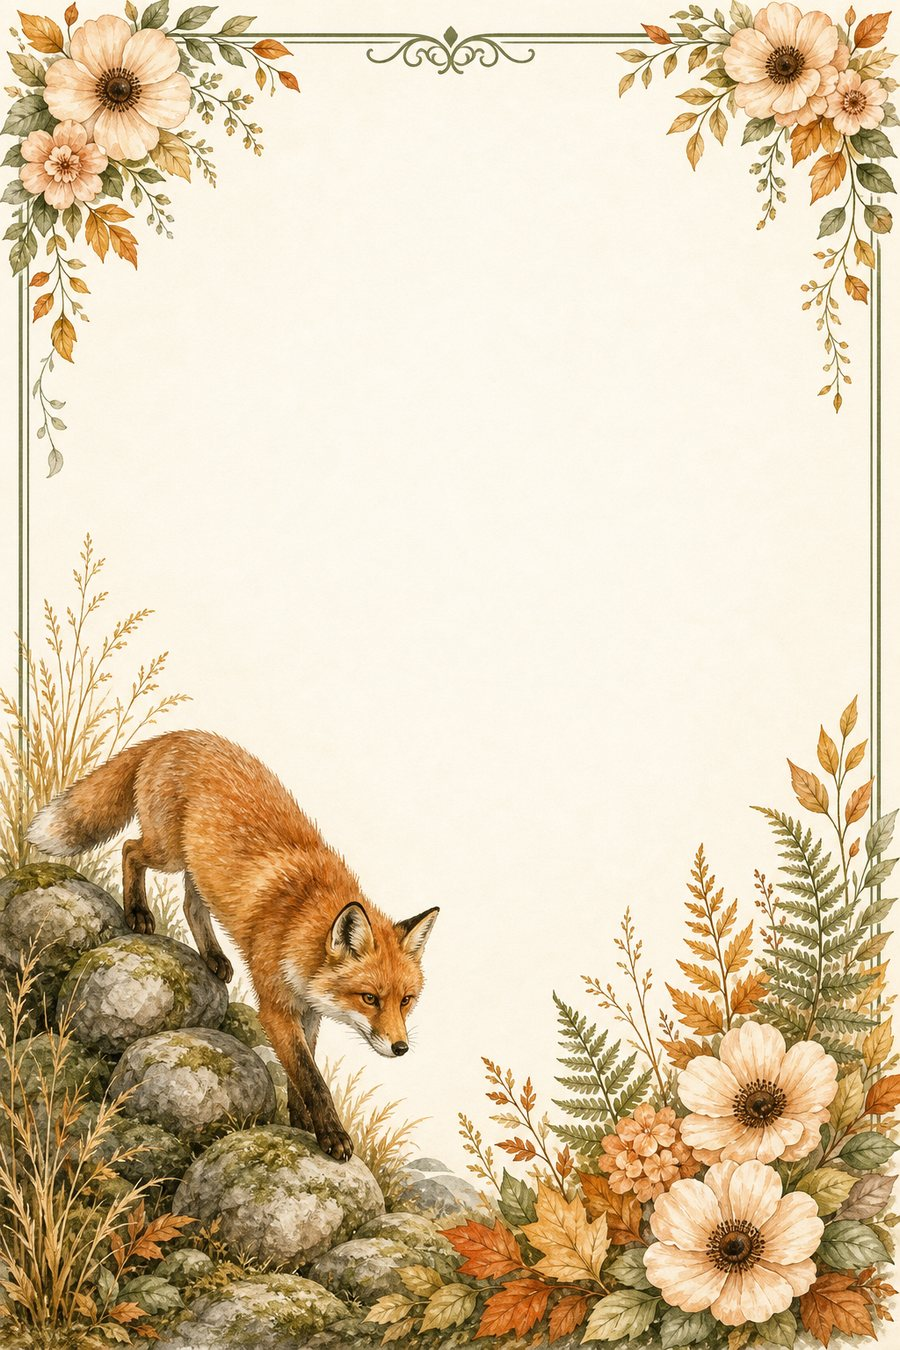
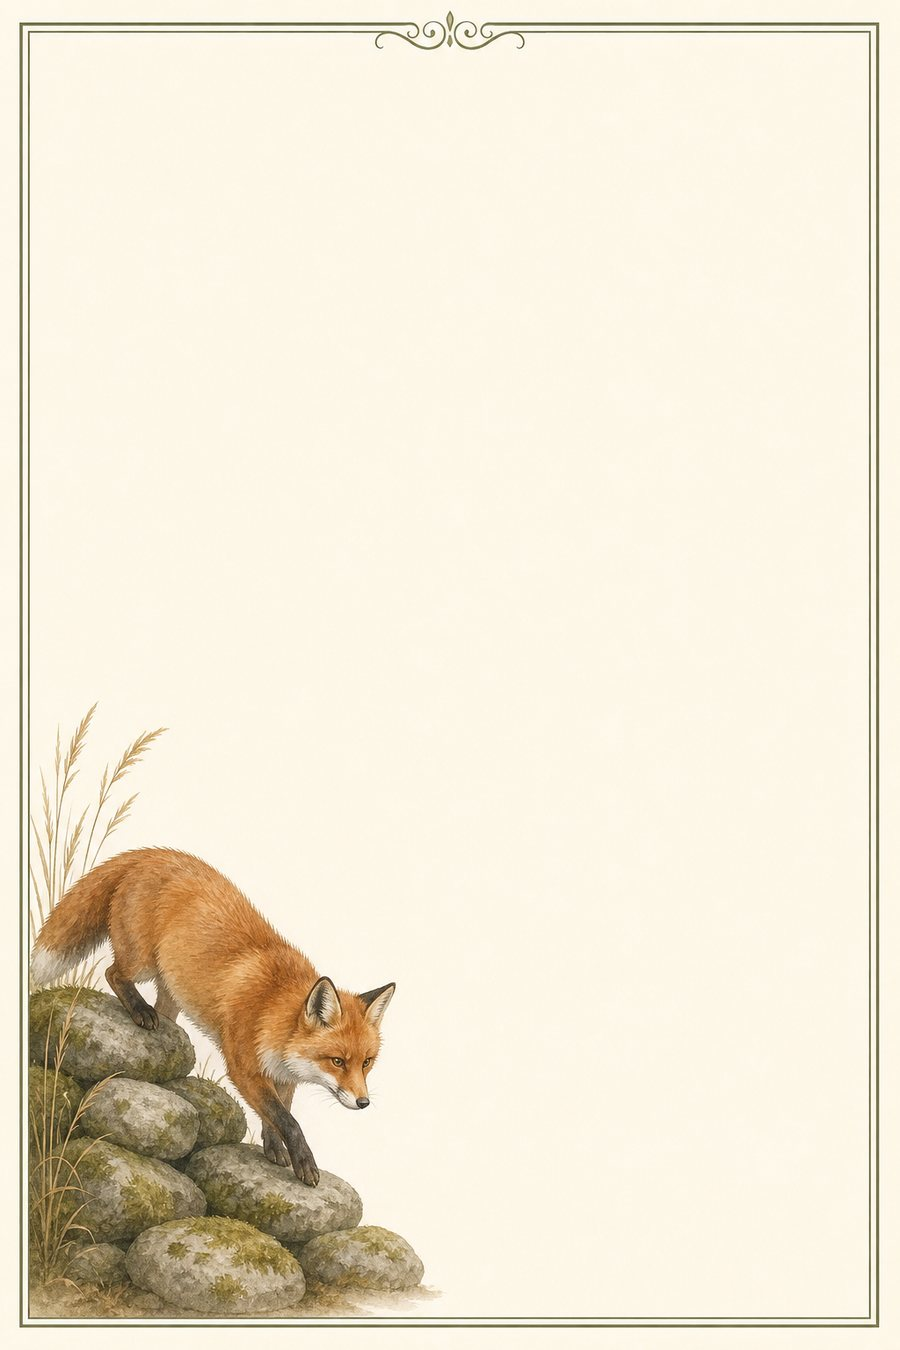
Simplify Bramblewood stationery to fox and border
Remove floral corner decorations so writers have open cream space to
decorate themselves, keeping only the double-line frame and fox.

diff --git a/src/app/compose/page.tsx b/src/app/compose/page.tsx
@@ -56,7 +56,7 @@ export default async function ComposePage({
           {isHearthwick
             ? "Lined cottage parchment, a meadow hedgehog in the corner, and room for whatever you need to say."
             : isBramblewood
-              ? "Cream trail paper framed with peach blossoms, a fox on mossy stones, and space for your next note."
+              ? "Cream trail paper with a quiet border, a fox on mossy stones, and plenty of room to decorate."
               : "Pick paper and an envelope, scatter stickers and scraps, then seal it shut."}
         </p>
       </header>

diff --git a/src/components/ComposeStudio.tsx b/src/components/ComposeStudio.tsx
@@ -362,7 +362,7 @@ export function ComposeStudio({
               ) : villageStationery === "bramblewood" ? (
                 <p className="compose-hint">
                   You&apos;re writing on Bramblewood&apos;s trail stationery —
-                  cream paper framed with peach blossoms and a fox on mossy stones.
+                  a quiet frame and a fox on mossy stones, with room to decorate.
                 </p>
               ) : null}
               <div className="option-grid">

diff --git a/src/app/globals.css b/src/app/globals.css
@@ -906,7 +906,7 @@ select {
   background-repeat: no-repeat;
   border-radius: 0.55rem 0.75rem 0.9rem 0.7rem / 0.7rem 0.55rem 0.8rem 0.65rem;
   min-height: min(72vh, 46rem);
-  padding: 3.4rem 2.6rem 9rem 2.6rem;
+  padding: 3.2rem 2.4rem 7.5rem 2.4rem;
   box-shadow:
     0 22px 48px rgba(40, 28, 12, 0.4),
     inset 0 0 0 1px rgba(60, 70, 40, 0.12);

diff --git a/src/lib/types.ts b/src/lib/types.ts
@@ -319,7 +319,7 @@ export const PAPER_OPTIONS: {
   {
     id: "bramblewood",
     name: "Bramblewood Stationery",
-    hint: "Fox trail & peach wildflowers",
+    hint: "Fox on the stones & a quiet frame",
   },
   { id: "parchment", name: "Parchment", hint: "Tea-stained & soft" },
   { id: "cream", name: "Cream Linen", hint: "Quiet & classic" },
